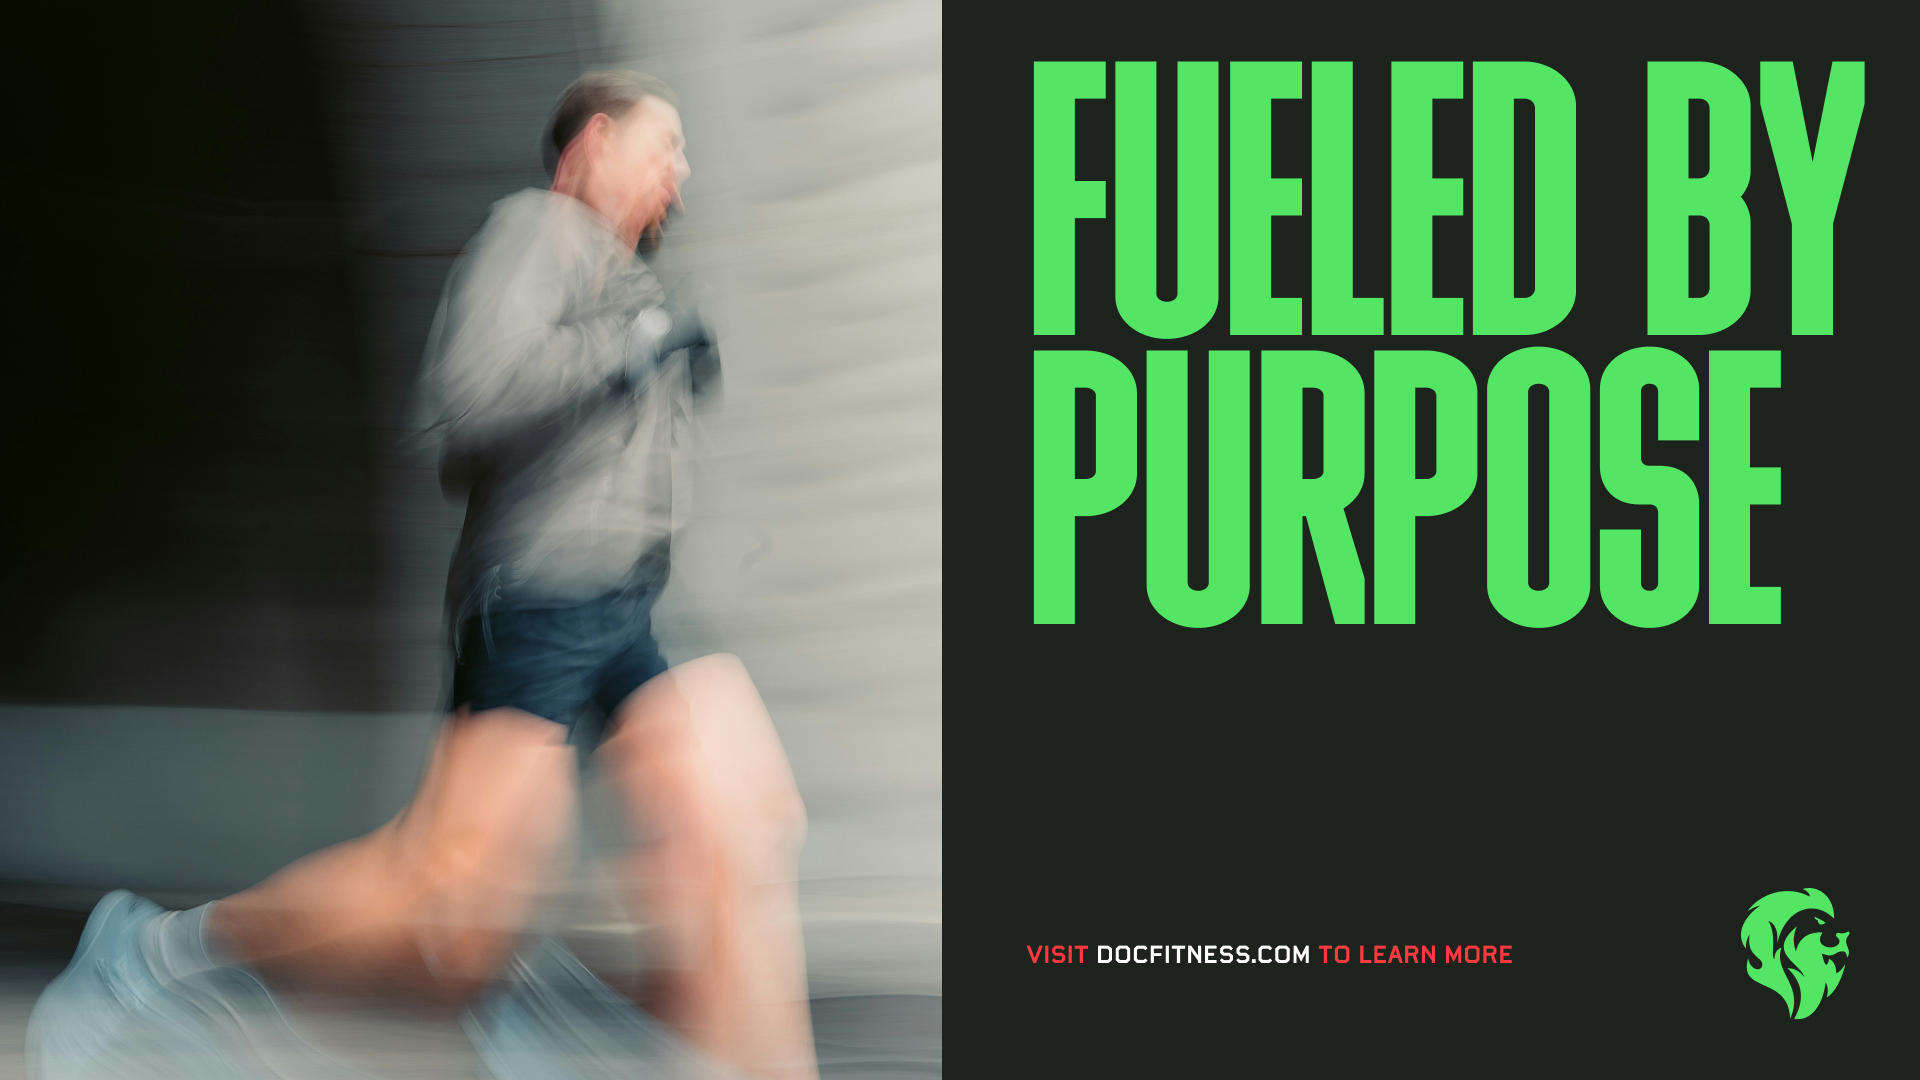
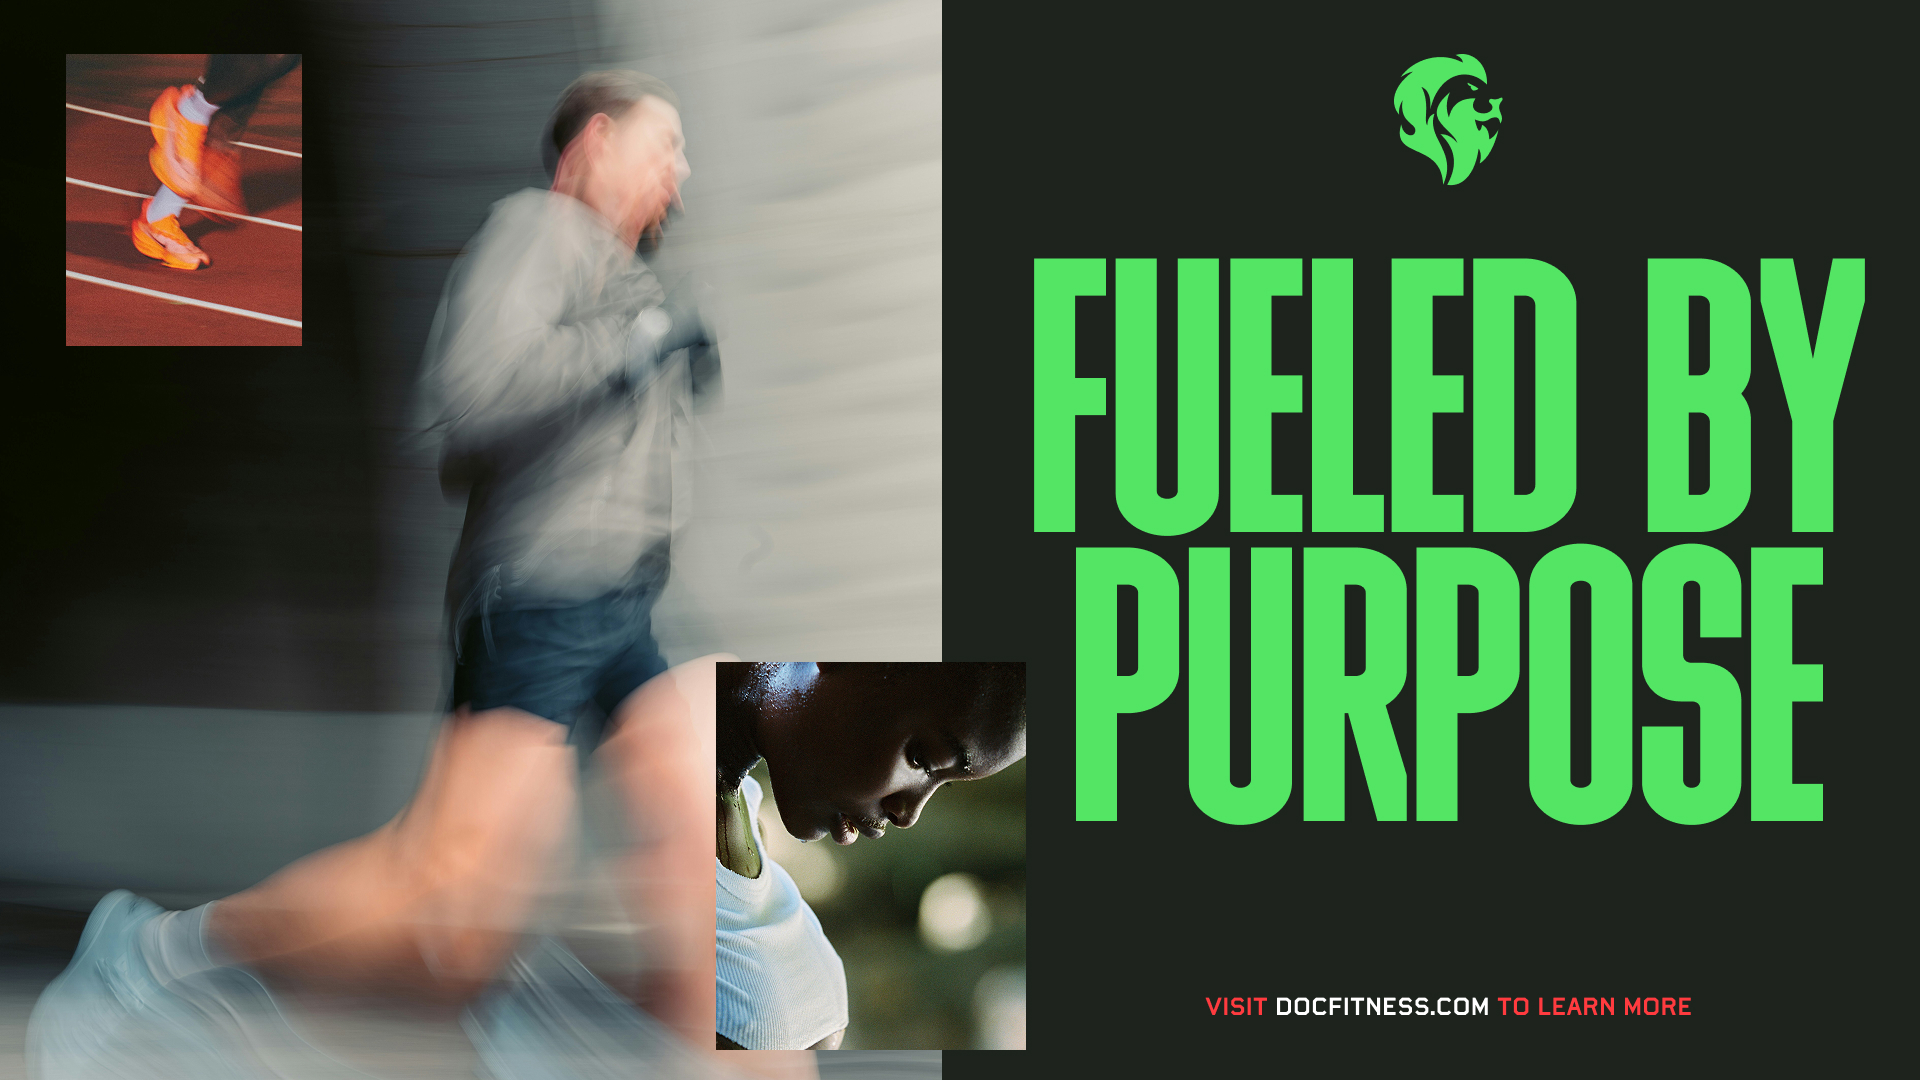
Added new images to DOC Fitness project. Re-arranged imagery

diff --git a/Pages/Projects/docfitness.html b/Pages/Projects/docfitness.html
@@ -50,6 +50,11 @@
                 </div>
 
                 <div>
+                    <img src="Project_Images/DOCFitness/DOCFitness_sketches.jpg"
+                        alt="">
+                </div>
+
+                <div>
                     <img src="Project_Images/DOCFitness/DOCFitness2.jpg"
                         alt="">
                 </div>
@@ -75,6 +80,11 @@
                 </div>
 
                 <div>
+                    <img src="Project_Images/DOCFitness/DOCFitness_Billboard.jpg"
+                        alt="">
+                </div>
+
+                <div>
                     <img src="Project_Images/DOCFitness/DOCFitness8.jpg"
                         alt="">
                 </div>
@@ -85,17 +95,22 @@
                 </div>
 
                 <div>
+                    <img src="Project_Images/DOCFitness/DOCFitness12.jpg"
+                        alt="">
+                </div>
+
+                <div>
+                    <img src="Project_Images/DOCFitness/DOCFitness11.jpg"
+                        alt="">
+                </div>
+
+                <div>
                     <img src="Project_Images/DOCFitness/DOCFitness9.jpg"
                         alt="">
                 </div>
 
                 <div>
                     <img src="Project_Images/DOCFitness/DOCFitness10.jpg"
-                        alt="">
-                </div>
-
-                <div>
-                    <img src="Project_Images/DOCFitness/DOCFitness11.jpg"
                         alt="">
                 </div>
 
